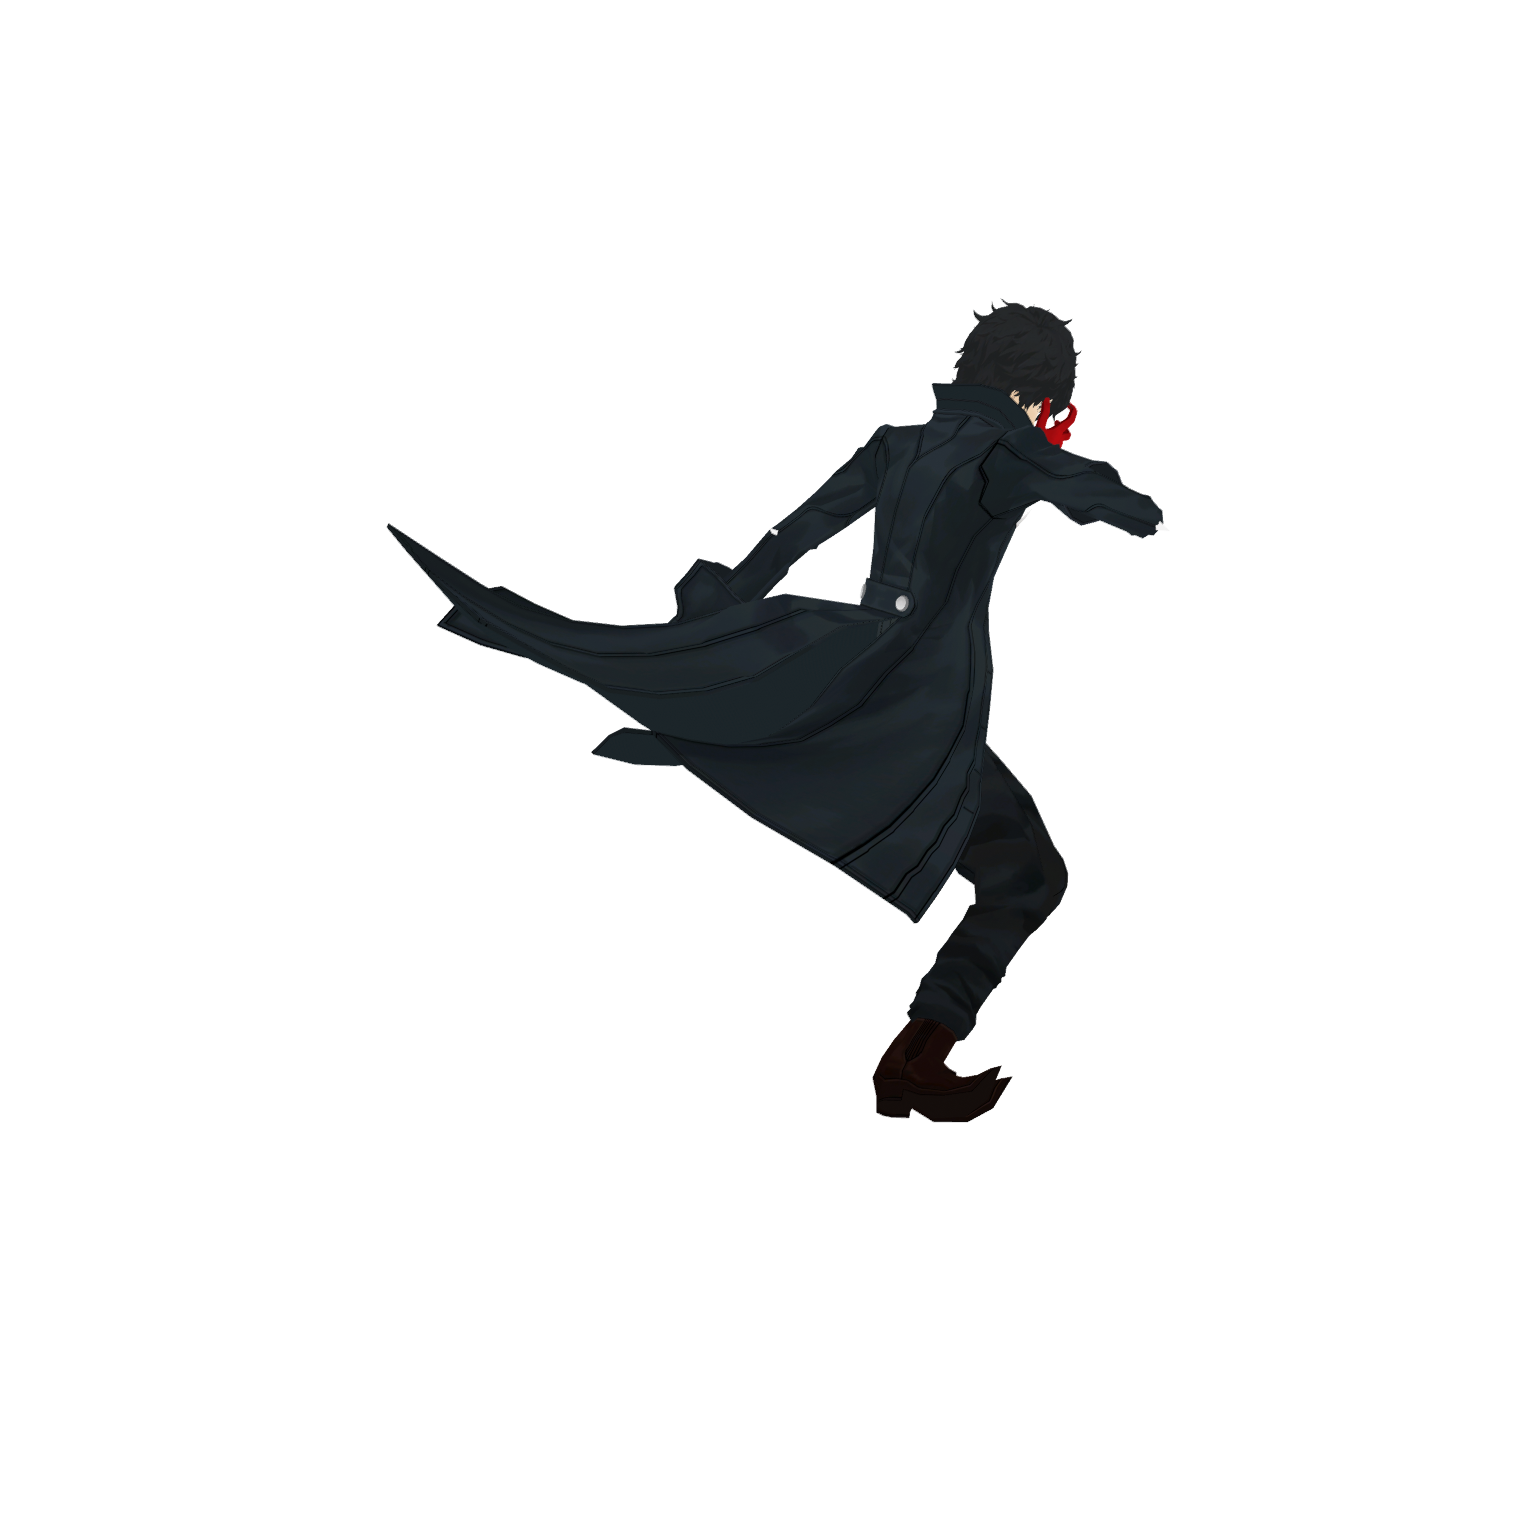
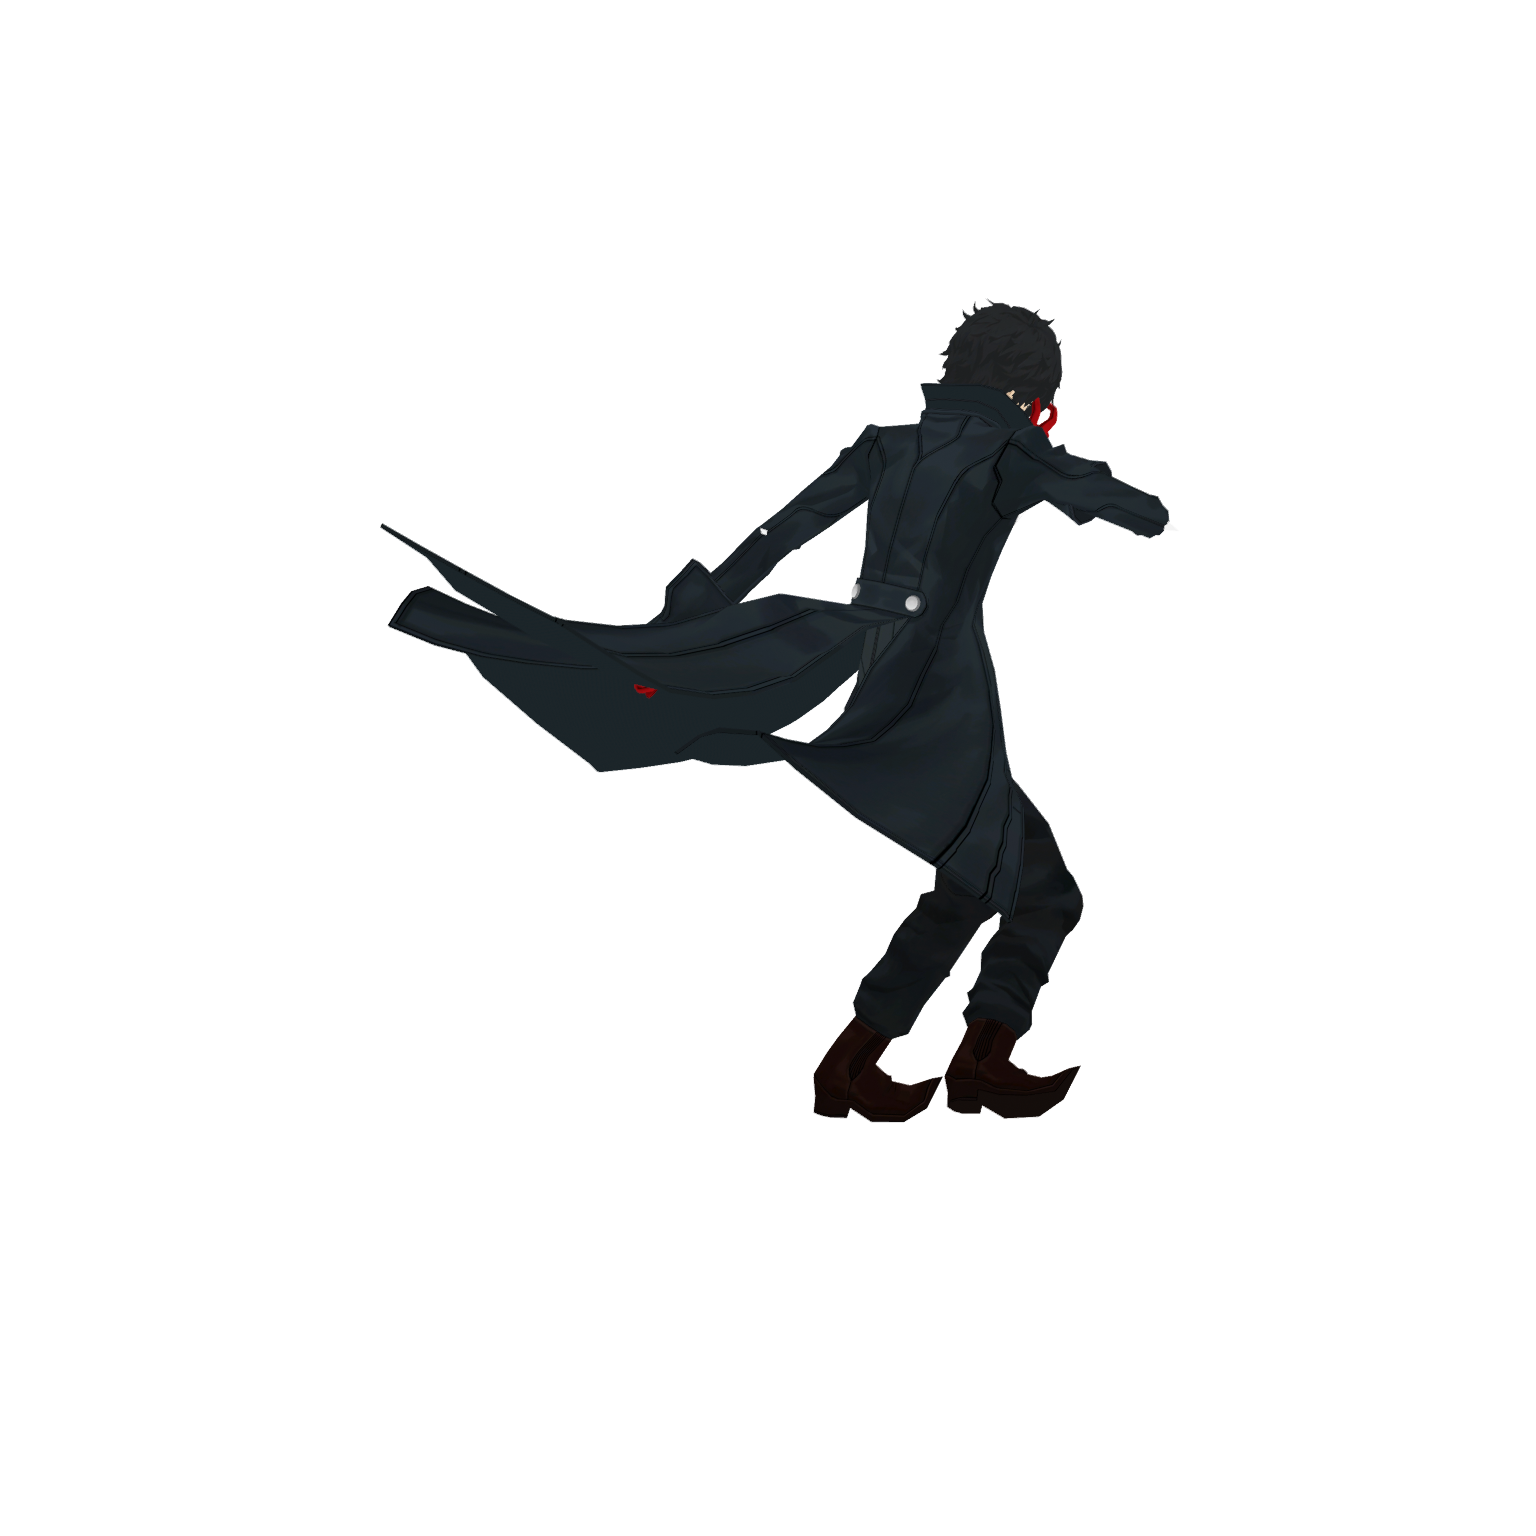
召唤后两张机位继续向人物右侧转15度至351.86度

diff --git a/research/p5r/summon/scripts/summon_right30_render.py b/research/p5r/summon/scripts/summon_right30_render.py
@@ -1,0 +1,16 @@
+import bpy,json,math
+from pathlib import Path
+from mathutils import Vector
+r=Path(r'C:/Users/kkk/Documents/Codex/2026-10-12/claude-git-c-users-kkk-videos/work/persona-ref-upload');p=r/'research/p5r/summon';out=p/'right30_review';out.mkdir(exist_ok=True)
+clips=json.loads((p/'source_clips.json').read_text(encoding='utf-8'));previous=json.loads((p/'right15_review/camera_records.json').read_text(encoding='utf-8'));m=json.loads((p/'angle_options_frames/camera_options.json').read_text(encoding='utf-8'));records=[]
+for prev in previous:
+ clip=next(c for c in clips if c['number']==prev['clip']);bpy.ops.wm.read_factory_settings(use_empty=True);bpy.ops.import_scene.gltf(filepath=clip['attached_glb']);sc=bpy.context.scene;sc.render.fps=30;sc.frame_set(prev['frame']);bpy.context.view_layer.update()
+ az=(prev['azimuth_degrees']+15)%360;direction=Vector((math.cos(math.radians(az)),math.sin(math.radians(az)),0));target=Vector(m['camera_target']);loc=target+direction*m['camera_distance'];rot=(target-loc).to_track_quat('-Z','Y').to_euler()
+ sc.render.engine='BLENDER_WORKBENCH';s=sc.display.shading;s.light='FLAT';s.color_type='TEXTURE';s.show_shadows=False;s.show_cavity=False;s.show_specular_highlight=False;s.show_object_outline=False
+ sc.render.film_transparent=True;sc.render.image_settings.file_format='PNG';sc.render.image_settings.color_mode='RGBA';sc.render.resolution_x=1536;sc.render.resolution_y=1536;sc.render.resolution_percentage=100;sc.view_settings.view_transform='Standard'
+ for o in sc.objects:
+  if o.type=='MESH' and o.name=='Icosphere':o.hide_render=True
+ cd=bpy.data.cameras.new('Right30Camera');cam=bpy.data.objects.new('Right30Camera',cd);sc.collection.objects.link(cam);sc.camera=cam;cd.type='ORTHO';cd.ortho_scale=m['ortho_scale'];cd.clip_start=.01;cd.clip_end=100000;cam.location=loc;cam.rotation_euler=rot
+ sc.render.filepath=str(out/prev['name']);bpy.ops.render.render(write_still=True)
+ records.append({'name':prev['name'],'clip':prev['clip'],'frame':prev['frame'],'previous_azimuth_degrees':prev['azimuth_degrees'],'delta_degrees':15,'total_delta_from_selected_degrees':30,'azimuth_degrees':az,'camera_location':list(loc),'camera_rotation':list(rot),'ortho_scale':m['ortho_scale'],'camera_target':list(target),'resolution':[1536,1536],'horizontal_mirror':True})
+(out/'camera_records.json').write_text(json.dumps(records,indent=2),encoding='utf-8');print('RIGHT30_READY',az,flush=True)

diff --git a/research/p5r/summon/scripts/summon_right30_finish.py b/research/p5r/summon/scripts/summon_right30_finish.py
@@ -1,0 +1,7 @@
+from pathlib import Path
+# Reuse the previous packing/validation workflow without changing the previous review files.
+s=Path(__file__).with_name('summon_right15_finish.py').read_text(encoding='utf-8')
+s=s.replace('right15','right30').replace('336.856095851','351.856095851').replace('336.86','351.86')
+s=s.replace('从321.856095851°转至351.856095851°（+15°）','从336.856095851°转至351.856095851°（本次+15°，累计+30°）')
+s=s.replace('用户反馈“后面两帧往人物右边转一些”','用户反馈“再多转15度”')
+exec(compile(s,__file__,'exec'))

diff --git a/research/p5r/summon/REPORT_summon_right30.md b/research/p5r/summon/REPORT_summon_right30.md
@@ -1,0 +1,20 @@
+# 召唤后两张关键帧向人物右侧调整（2026-10-26）
+
+用户反馈“再多转15度”。本次按相机观察角度调整处理，采用15°的小幅调整；只改key_rip_open（16帧14）与key_stance（17帧0），前两张key_mask_hold和key_rip_mid保持不变。
+
+开始前fetch+merge，最新仍721837b2。以角色右肩减左肩的世界水平向量确定人物自身右侧，比较相机绕竖直轴正负15°哪一边更靠向右肩侧；两张均为从336.856095851°转至351.856095851°（本次+15°，累计+30°）。不修改人物原始动作、模型、手部或身体旋转。
+
+相机目标、距离、高度及正交大小285.331708331保持不变；1536×1536 RGBA透明底，统一水平镜像。不挂枪。两张四边alpha均0，未裁切衣摆。前两张文件SHA256在修改前后完全一致，记录见right30_review/postprocessed.json。
+
+## 文件
+
+- key_rip_open.png、key_stance.png：当前调整后的后两张关键帧。
+- key_contact_sheet.png：前两张321.86°、后两张351.86°的新四张对比。
+- right30_review/comparison.png：每个后段姿势的改前/改后并排，角度均写明。
+- right30_review/before_key_*.png：保留本次调整前的两张，不改动历史。
+- right30_review/camera_records.json：精确机位及人物右侧方向向量。
+- scripts/summon_right30_render.py、summon_right30_finish.py：实际脚本。
+
+这次仅供确认后两张观察角度，未重新渲完整16/17段；根目录15/16/17逐帧PNG、GIF、联系表及render_records仍是上轮321.86°固定相机结果，不能将其当作351.86°版本。key_selection已为后两张标明新角度与来源，避免混淆。等待用户确认后再决定后续整段统一机位/立绘步骤；没有调用生图工具。
+
+art/cards另一会话11个已修改文件未触碰/提交；既有guard_a本地修改及其他无关未跟踪资源保留。不stash、还原、rebase、reset、强推，未打开结城理mod图片，未读obs.json或密码，未启动游戏。推送后用ls-remote确认origin收到提交。

diff --git a/research/p5r/summon/README.md b/research/p5r/summon/README.md
@@ -2,6 +2,6 @@
 
 用户选择321.86°后，已重渲15/16/17三段并挑关键帧。当前逐帧PNG、联系表、GIF仍为该统一机位。
 
-最新反馈：后两张向人物右侧转一些。本轮仅将key_rip_open和key_stance相机转至336.86°，前两张仍321.86°，新key_contact_sheet.png和right15_review/comparison.png待用户确认。详见REPORT_summon_right15.md及key_selection.json。
+最新反馈：后两张向人物右侧转一些。本轮仅将key_rip_open和key_stance相机转至351.86°，前两张仍321.86°，新key_contact_sheet.png和right30_review/comparison.png待用户确认。详见REPORT_summon_right30.md及key_selection.json。
 
 未开始召唤立绘生图。旧报告保留过程记录，以最新报告为准。
